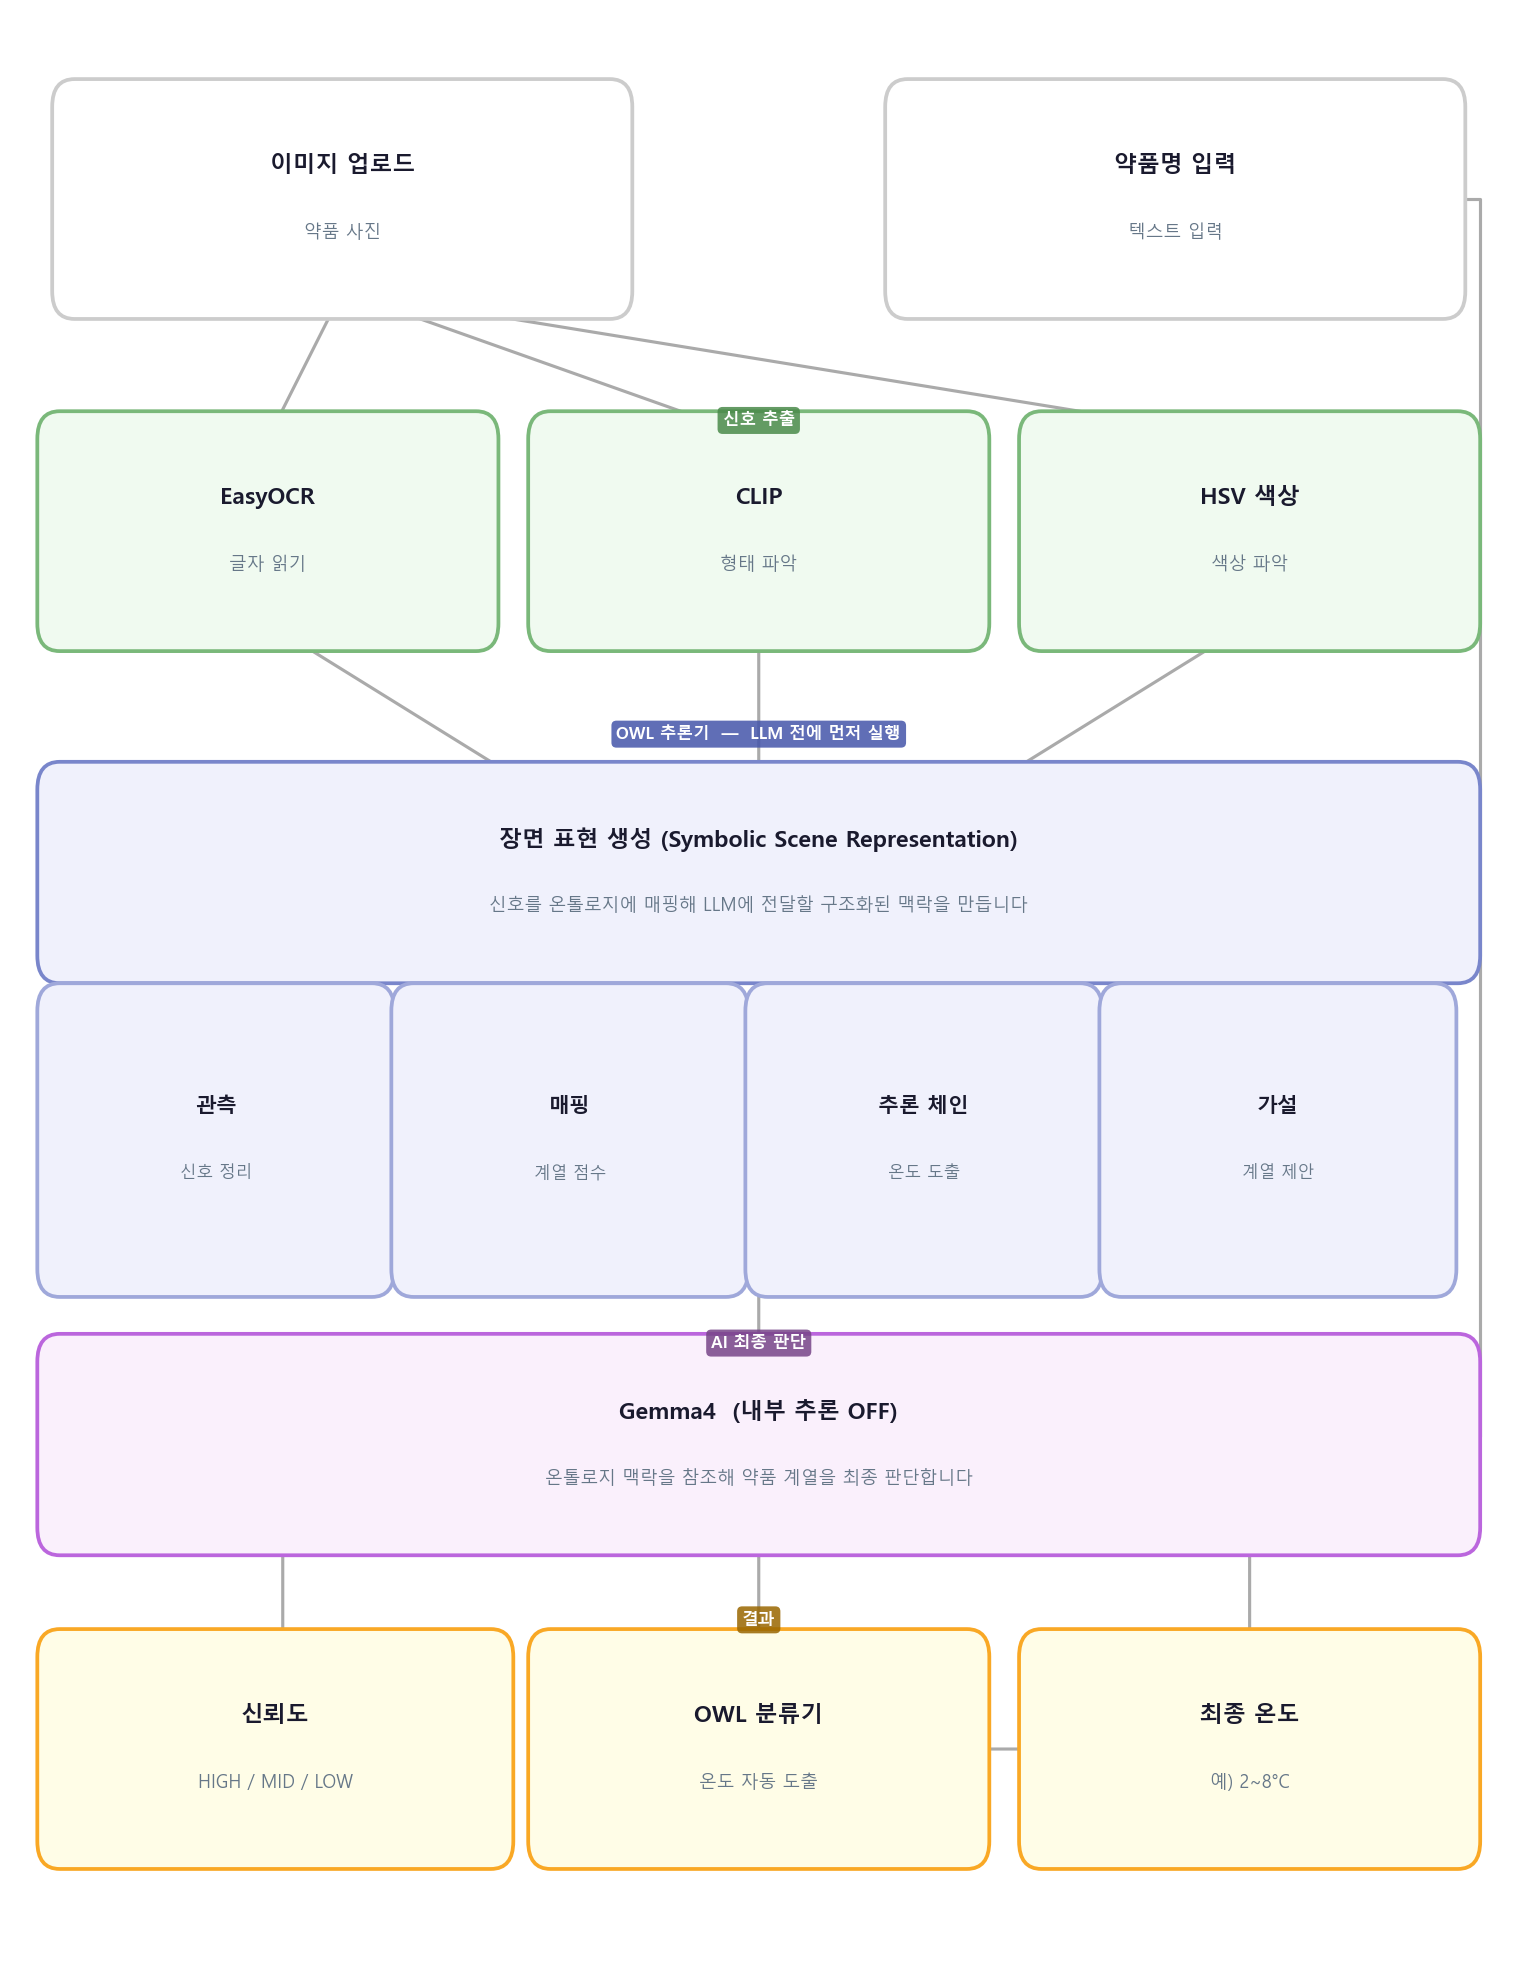
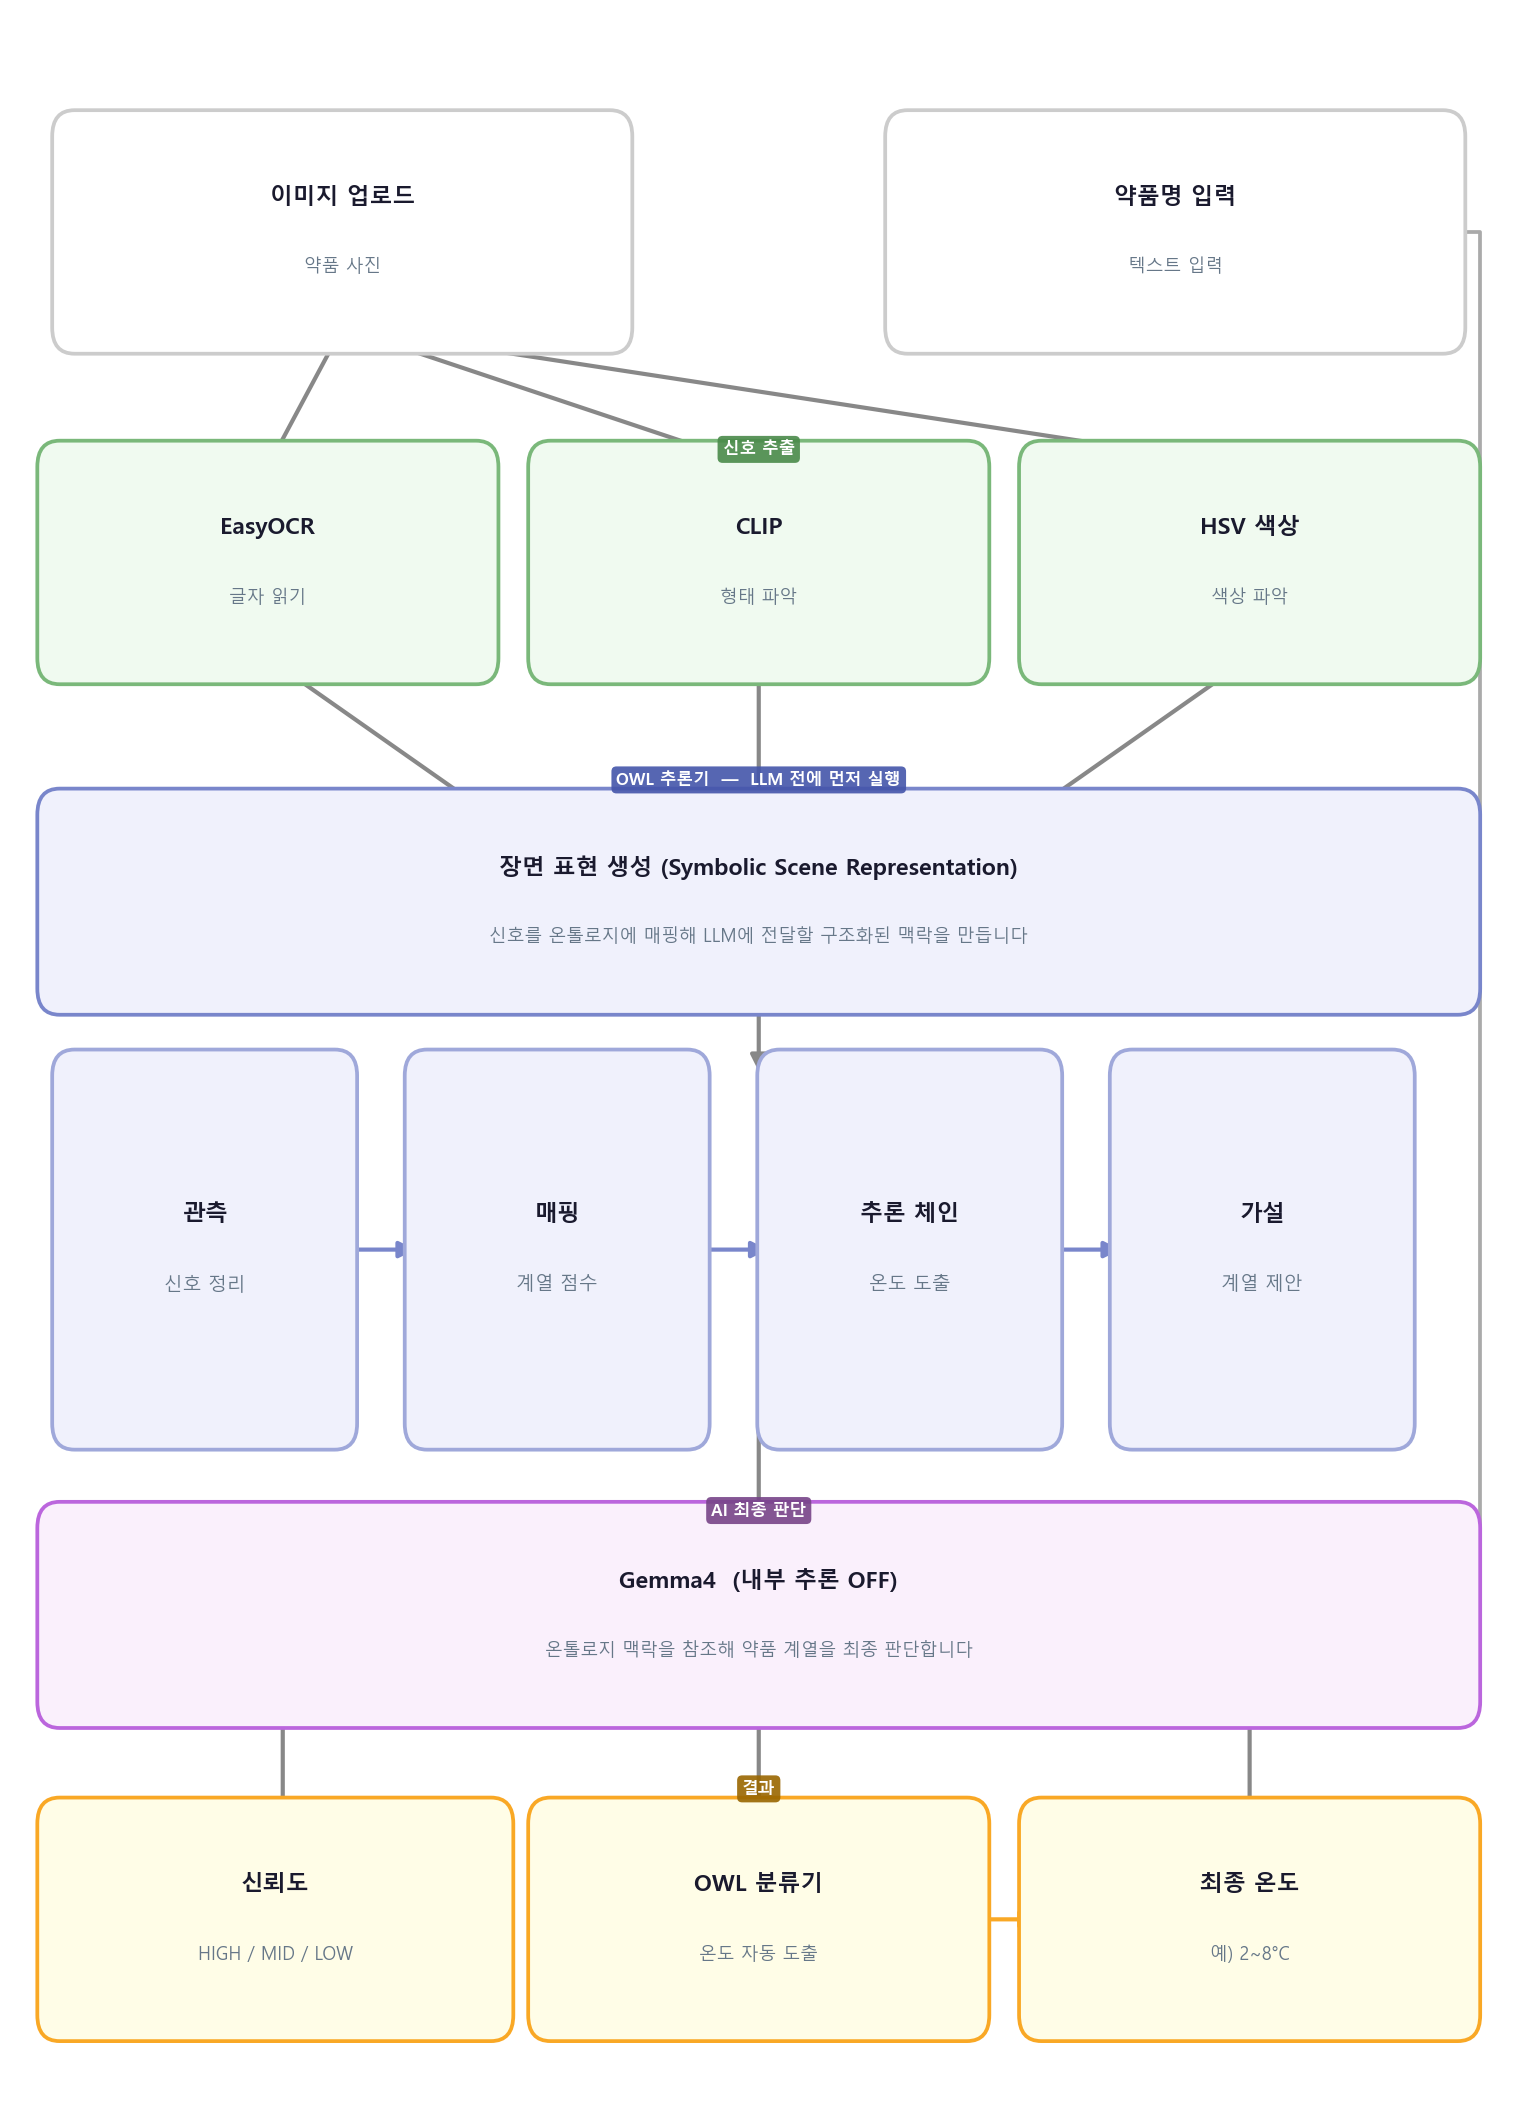
docs: widen stage cards, add visible colored arrows between steps

diff --git a/generate_architecture.py b/generate_architecture.py
@@ -1,14 +1,13 @@
 import matplotlib
 import matplotlib.pyplot as plt
-from matplotlib.patches import FancyBboxPatch, FancyArrowPatch
+from matplotlib.patches import FancyBboxPatch
 
 matplotlib.rcParams["font.family"] = ["Malgun Gothic", "DejaVu Sans"]
 matplotlib.rcParams["axes.unicode_minus"] = False
 
-W, H = 10, 13
-fig, ax = plt.subplots(figsize=(W, H))
-ax.set_xlim(0, W)
-ax.set_ylim(2.5, H)
+fig, ax = plt.subplots(figsize=(10, 14))
+ax.set_xlim(0, 10)
+ax.set_ylim(2.0, 14)
 ax.axis("off")
 fig.patch.set_facecolor("white")
 
@@ -18,9 +17,9 @@ def box(ax, x, y, w, h, title, sub="", color="white", ec="#cccccc", tsize=11, ss
                           facecolor=color, edgecolor=ec, linewidth=1.8, zorder=3)
     ax.add_patch(rect)
     if sub:
-        ax.text(x + w/2, y + h/2 + 0.18, title, ha="center", va="center",
+        ax.text(x + w/2, y + h/2 + 0.2, title, ha="center", va="center",
                 fontsize=tsize, fontweight="bold", color="#1a1a2e", zorder=4)
-        ax.text(x + w/2, y + h/2 - 0.18, sub, ha="center", va="center",
+        ax.text(x + w/2, y + h/2 - 0.2, sub, ha="center", va="center",
                 fontsize=ssize, color="#667788", zorder=4)
     else:
         ax.text(x + w/2, y + h/2, title, ha="center", va="center",
@@ -31,83 +30,87 @@ def chip(ax, x, y, text, color):
     ax.text(x, y, text, ha="center", va="center", fontsize=8,
             color="white", fontweight="bold",
             bbox=dict(boxstyle="round,pad=0.3", facecolor=color,
-                      edgecolor="none", alpha=0.85), zorder=5)
+                      edgecolor="none", alpha=0.9), zorder=5)
 
 
-def arr(ax, x1, y1, x2, y2):
+def arr(ax, x1, y1, x2, y2, color="#888888"):
     ax.annotate("", xy=(x2, y2), xytext=(x1, y1),
-                arrowprops=dict(arrowstyle="-|>", color="#aaaaaa",
-                                lw=1.5, mutation_scale=13), zorder=2)
+                arrowprops=dict(arrowstyle="-|>", color=color,
+                                lw=2.0, mutation_scale=16), zorder=2)
 
 
 # ── 입력 ──────────────────────────────────────────────────────────────────────
-box(ax, 0.4, 11.5, 3.6, 1.0, "이미지 업로드", "약품 사진")
-box(ax, 6.0, 11.5, 3.6, 1.0, "약품명 입력", "텍스트 입력")
+box(ax, 0.4, 12.2, 3.6, 1.1, "이미지 업로드", "약품 사진")
+box(ax, 6.0, 12.2, 3.6, 1.1, "약품명 입력", "텍스트 입력")
 
 # ── 신호 추출 ──────────────────────────────────────────────────────────────────
-chip(ax, 5.0, 10.8, "신호 추출", "#4a8a4a")
+chip(ax, 5.0, 11.5, "신호 추출", "#4a8a4a")
 
-box(ax, 0.3, 9.7, 2.8, 1.0, "EasyOCR", "글자 읽기", color="#f0faf0", ec="#7ab87a")
-box(ax, 3.6, 9.7, 2.8, 1.0, "CLIP", "형태 파악", color="#f0faf0", ec="#7ab87a")
-box(ax, 6.9, 9.7, 2.8, 1.0, "HSV 색상", "색상 파악", color="#f0faf0", ec="#7ab87a")
+box(ax, 0.3, 10.3, 2.8, 1.1, "EasyOCR", "글자 읽기", color="#f0faf0", ec="#7ab87a")
+box(ax, 3.6, 10.3, 2.8, 1.1, "CLIP", "형태 파악", color="#f0faf0", ec="#7ab87a")
+box(ax, 6.9, 10.3, 2.8, 1.1, "HSV 색상", "색상 파악", color="#f0faf0", ec="#7ab87a")
 
 # ── OWL 추론기 ─────────────────────────────────────────────────────────────────
-chip(ax, 5.0, 9.1, "OWL 추론기  —  LLM 전에 먼저 실행", "#4455aa")
+chip(ax, 5.0, 9.6, "OWL 추론기  —  LLM 전에 먼저 실행", "#4455aa")
 
-box(ax, 0.3, 7.9, 9.4, 0.9,
+box(ax, 0.3, 8.4, 9.4, 1.0,
     "장면 표현 생성 (Symbolic Scene Representation)",
     "신호를 온톨로지에 매핑해 LLM에 전달할 구조화된 맥락을 만듭니다",
     color="#f0f1fc", ec="#7986cb")
 
+# 4단계 카드 — 간격 넓히고 화살표 굵게
+BW, GAP = 1.75, 0.62   # 박스 너비, 카드 사이 간격
+BY, BH = 5.9, 2.0      # 카드 y 시작, 높이
 for i, (t, s) in enumerate([("관측","신호 정리"), ("매핑","계열 점수"), ("추론 체인","온도 도출"), ("가설","계열 제안")]):
-    bx = 0.3 + i * 2.38
-    box(ax, bx, 6.2, 2.1, 1.4, t, s, color="#f0f1fc", ec="#9fa8da", tsize=10, ssize=8)
+    bx = 0.4 + i * (BW + GAP)
+    box(ax, bx, BY, BW, BH, t, s, color="#f0f1fc", ec="#9fa8da", tsize=11, ssize=9)
     if i < 3:
-        arr(ax, bx + 2.1, 6.9, bx + 2.38, 6.9)
+        ax_mid = BY + BH / 2
+        arr(ax, bx + BW + 0.05, ax_mid, bx + BW + GAP - 0.05, ax_mid, color="#7986cb")
 
 # ── Gemma4 ─────────────────────────────────────────────────────────────────────
-chip(ax, 5.0, 5.8, "AI 최종 판단", "#774488")
+chip(ax, 5.0, 5.4, "AI 최종 판단", "#774488")
 
-box(ax, 0.3, 4.8, 9.4, 0.9,
+box(ax, 0.3, 4.3, 9.4, 1.0,
     "Gemma4  (내부 추론 OFF)",
     "온톨로지 맥락을 참조해 약품 계열을 최종 판단합니다",
     color="#faf0fc", ec="#bb66dd")
 
 # ── 결과 ───────────────────────────────────────────────────────────────────────
-chip(ax, 5.0, 4.3, "결과", "#996600")
+chip(ax, 5.0, 3.8, "결과", "#996600")
 
-box(ax, 0.3, 3.1, 2.9, 1.0, "신뢰도", "HIGH / MID / LOW", color="#fffde7", ec="#f9a825")
-box(ax, 3.6, 3.1, 2.8, 1.0, "OWL 분류기", "온도 자동 도출", color="#fffde7", ec="#f9a825")
-box(ax, 6.9, 3.1, 2.8, 1.0, "최종 온도", "예) 2~8°C", color="#fffde7", ec="#f9a825")
+box(ax, 0.3, 2.5, 2.9, 1.1, "신뢰도", "HIGH / MID / LOW", color="#fffde7", ec="#f9a825")
+box(ax, 3.6, 2.5, 2.8, 1.1, "OWL 분류기", "온도 자동 도출", color="#fffde7", ec="#f9a825")
+box(ax, 6.9, 2.5, 2.8, 1.1, "최종 온도", "예) 2~8°C", color="#fffde7", ec="#f9a825")
 
 # ── 화살표 ─────────────────────────────────────────────────────────────────────
-# 이미지 → 세 신호박스로
-arr(ax, 2.2, 11.5, 1.7, 10.7)
-arr(ax, 2.2, 11.5, 5.0, 10.7)
-arr(ax, 2.2, 11.5, 8.3, 10.7)
+# 이미지 → 세 신호 박스
+arr(ax, 2.2, 12.2, 1.7, 11.4)
+arr(ax, 2.2, 12.2, 5.0, 11.4)
+arr(ax, 2.2, 12.2, 8.3, 11.4)
 
-# 약품명 → Gemma4 (오른쪽 가장자리를 따라 내려감)
-ax.plot([9.6, 9.85, 9.85], [12.0, 12.0, 5.3], color="#aaaaaa", lw=1.5, zorder=2)
-arr(ax, 9.85, 5.3, 9.65, 5.3)
+# 약품명 → Gemma4 (오른쪽 가장자리)
+ax.plot([9.6, 9.85, 9.85], [12.75, 12.75, 4.8], color="#aaaaaa", lw=1.8, zorder=2)
+arr(ax, 9.85, 4.8, 9.65, 4.8)
 
-# 세 신호 → 장면표현으로 수렴
-arr(ax, 1.7, 9.7, 3.5, 8.8)
-arr(ax, 5.0, 9.7, 5.0, 8.8)
-arr(ax, 8.3, 9.7, 6.5, 8.8)
+# 신호 → 장면 표현
+arr(ax, 1.7, 10.3, 3.2, 9.4)
+arr(ax, 5.0, 10.3, 5.0, 9.4)
+arr(ax, 8.3, 10.3, 6.8, 9.4)
 
-# 장면표현 → 4단계 카드
-arr(ax, 5.0, 7.9, 5.0, 7.6)
+# 장면 표현 → 카드
+arr(ax, 5.0, 8.4, 5.0, 7.9)
 
 # 카드 → Gemma4
-arr(ax, 5.0, 6.2, 5.0, 5.7)
+arr(ax, 5.0, BY, 5.0, 5.3)
 
 # Gemma4 → 결과
-arr(ax, 1.8, 4.8, 1.8, 4.1)
-arr(ax, 5.0, 4.8, 5.0, 4.1)
-arr(ax, 8.3, 4.8, 8.3, 4.1)
+arr(ax, 1.8, 4.3, 1.8, 3.6)
+arr(ax, 5.0, 4.3, 5.0, 3.6)
+arr(ax, 8.3, 4.3, 8.3, 3.6)
 
 # OWL 분류기 → 최종 온도
-arr(ax, 6.4, 3.6, 6.9, 3.6)
+arr(ax, 6.4, 3.05, 6.9, 3.05, color="#f9a825")
 
 plt.tight_layout(pad=0.3)
 plt.savefig("assets/architecture.png", dpi=150, bbox_inches="tight",